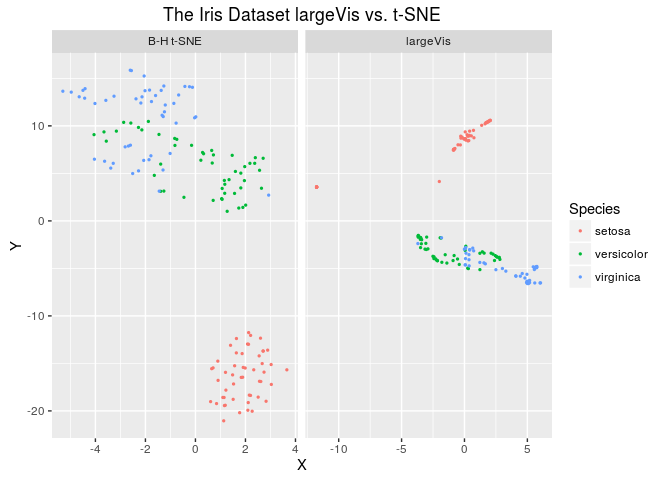
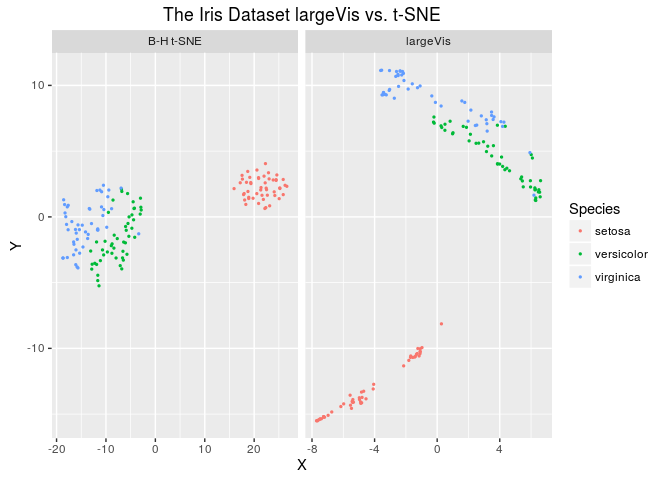
Minor bug fix.

diff --git a/src/largeVis.cpp b/src/largeVis.cpp
@@ -95,7 +95,8 @@ arma::mat sgd(NumericMatrix coords,
     const double w = (useWeights) ? ws[e_ij] : 1;
     // TODO: RE-ADD TO USE EXP IF ALPHA = 0
     const double dist_ij = sqrt(dist(y_i, y_j));
-    const arma::vec d_dist_ij = (y_i - y_j) / dist_ij;
+    // Note - when it worked, did not have sqrt in the below
+    const arma::vec d_dist_ij = (y_i - y_j) / sqrt(dist_ij);
     const double p_ij = //(alpha == 0) ?  (1 / (1 + exp(pow(dist_ij,2)))):
                                         1 / (1 + (alpha * pow(dist_ij,2)));
     arma::vec d_p_ij;
@@ -132,7 +133,8 @@ arma::mat sgd(NumericMatrix coords,
       arma::vec y_k = coordinates.col(k);
       const double dist_ik = sqrt(dist(y_i, y_k));
       if (dist_ik == 0) continue;
-      const arma::vec d_dist_ik = (y_i - y_k) / dist_ik;
+      // note added sqrt back
+      const arma::vec d_dist_ik = (y_i - y_k) / sqrt(dist_ik);
       const double p_ik = 1 - (1 / (1 + (alpha * pow(dist_ik,2))));
       const arma::vec d_p_ik = d_dist_ik * (1 / ((pow(dist_ik,2) * pow(alpha, 2)) + alpha));
     //  const double o_ik = log(p_ik);
